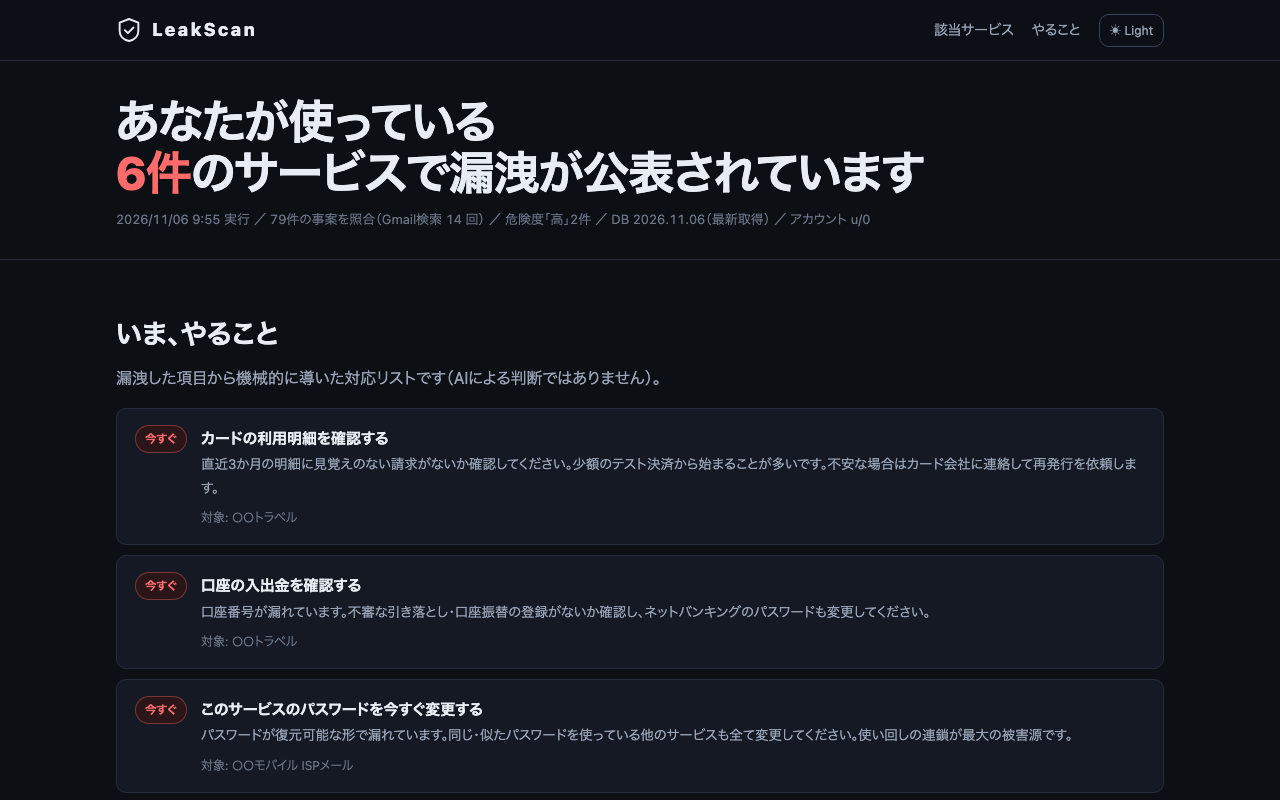
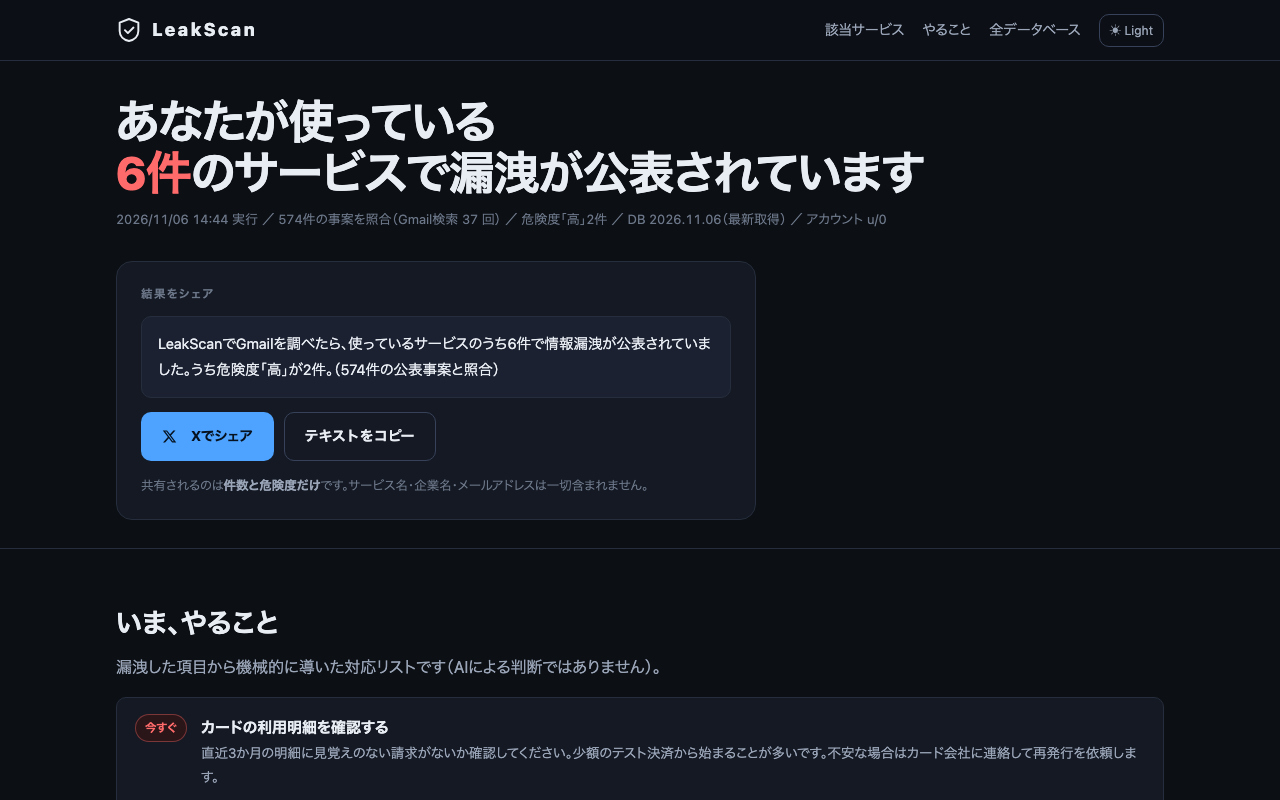
chore(store): スクリーンショットと設定既定値を現状に合わせる
- スクリーンショット4点を再生成（79件 → 574件 / Gmail検索14回 → 37回）
  企業名は引き続き伏せ字のまま
- 「1回の検索でまとめるサービス数」の既定を 8 → 16、上限 12 → 24 に。
  実際の詰め込みはクエリ文字数で決まることを説明文に追記
- プレビュー用ハーネスの件数を実データに合わせる

diff --git a/test/options-preview.html b/test/options-preview.html
@@ -8,7 +8,7 @@
 <script>
 window.chrome = { runtime: { sendMessage: async (msg, cb) => {
   let res;
-  if (msg.type === 'LEAKSCAN_GET_VIEW') res = { options:{accountIndex:0,includeSpamTrash:false,batchSize:8,dbBase:'https://leakscan.matsunai.com/data/'}, db:{count:79,source:'remote'}, state:{status:'idle'}, report:null };
+  if (msg.type === 'LEAKSCAN_GET_VIEW') res = { options:{accountIndex:0,includeSpamTrash:false,batchSize:16,dbBase:'https://leakscan.matsunai.com/data/'}, db:{count:574,source:'remote'}, state:{status:'idle'}, report:null };
   else if (msg.type === 'LEAKSCAN_SELFTEST') { await new Promise(r=>setTimeout(r,400));
     res = { ok:true, searchBoxFound:true, resetOk:true, noResultsDetected:true, rowSelector:'tr.zA', rowCount:50, senderCount:63, senderAttrsOk:true, paginationDetectable:true, elapsedMs:2140, error:null }; }
   else res = { ok:true };
@@ -40,7 +40,7 @@ window.chrome = { runtime: { sendMessage: async (msg, cb) => {
 
       <div class="row">
         <label class="lb" for="batch">1回の検索でまとめるサービス数</label>
-        <div class="hint">多くするとスキャンは速くなりますが、メールの多い人は分割再検索が増えます。既定は8です。</div>
+        <div class="hint">1回の検索に詰め込むサービス数の上限です。実際はクエリの文字数で詰めるため、ここまで使い切らないこともあります。多くするとスキャンは速くなりますが、メールの多い人は分割再検索が増えます。既定は16です。</div>
         <input type="number" id="batch" min="1" max="12" step="1">
       </div>
 

diff --git a/test/popup-preview.html b/test/popup-preview.html
@@ -31,8 +31,8 @@ window.chrome = {
     openOptionsPage(){},
     sendMessage: async (msg, cb) => {
       let res;
-      if (msg.type === 'LEAKSCAN_GET_VIEW') res = { state:{status:'done'}, options:{}, db:{count:79,version:'2026.11.06',source:'remote',stale:false},
-        report:{generatedAt:Date.now(),dbVersion:'2026.11.06',dbSource:'remote',accountIndex:0,scanned:79,queries:14,matches:FAKE} };
+      if (msg.type === 'LEAKSCAN_GET_VIEW') res = { state:{status:'done'}, options:{}, db:{count:574,version:'2026.11.06',source:'remote',stale:false},
+        report:{generatedAt:Date.now(),dbVersion:'2026.11.06',dbSource:'remote',accountIndex:0,scanned:574,queries:37,matches:FAKE} };
       else if (msg.type === 'LEAKSCAN_GET_DB') res = { meta:await fetch('/extension/data/meta.json').then(r=>r.json()), entries:maskEntries(await fetch('/extension/data/breaches.json').then(r=>r.json())) };
       else res = { ok:true };
       if (cb) cb(res); return res;

diff --git a/extension/options/options.html b/extension/options/options.html
@@ -30,7 +30,7 @@
 
       <div class="row">
         <label class="lb" for="batch">1回の検索でまとめるサービス数</label>
-        <div class="hint">多くするとスキャンは速くなりますが、メールの多い人は分割再検索が増えます。既定は8です。</div>
+        <div class="hint">1回の検索に詰め込むサービス数の上限です。実際はクエリの文字数で詰めるため、ここまで使い切らないこともあります。多くするとスキャンは速くなりますが、メールの多い人は分割再検索が増えます。既定は16です。</div>
         <input type="number" id="batch" min="1" max="12" step="1">
       </div>
 

diff --git a/test/results-preview.html b/test/results-preview.html
@@ -33,7 +33,7 @@ window.chrome = {
       if (msg.type === 'LEAKSCAN_GET_VIEW') {
         res = { state:{status:'done'}, options:{}, db:{},
           report:{ generatedAt:Date.now(), dbVersion:'2026.11.06', dbSource:'remote',
-                   accountIndex:0, includeSpamTrash:false, scanned:197, queries:16, matches:FAKE_MATCHES } };
+                   accountIndex:0, includeSpamTrash:false, scanned:574, queries:37, matches:FAKE_MATCHES } };
       } else if (msg.type === 'LEAKSCAN_GET_DB') {
         res = { meta: await fetch('/extension/data/meta.json').then(r=>r.json()),
                 entries: maskEntries(await fetch('/extension/data/breaches.json').then(r=>r.json())) };

diff --git a/extension/options/options.js b/extension/options/options.js
@@ -14,7 +14,7 @@
         patch: {
           accountIndex: Math.max(0, Math.min(9, Number($('#account').value) || 0)),
           includeSpamTrash: $('#spam').checked,
-          batchSize: Math.max(1, Math.min(12, Number($('#batch').value) || 8)),
+          batchSize: Math.max(1, Math.min(24, Number($('#batch').value) || 16)),
           dbBase: ($('#dburl').value || '').trim() || 'https://leakscan.matsunai.com/data/'
         }
       });

diff --git a/store/shots/popup-frame.html b/store/shots/popup-frame.html
@@ -28,5 +28,5 @@
       <li>完全無料・広告なし</li>
     </ul>
   </div>
-  <div class="shot"><iframe src="http://127.0.0.1:8782/test/popup-preview.html"></iframe></div>
+  <div class="shot"><iframe src="http://127.0.0.1:8742/test/popup-preview.html"></iframe></div>
 </div></body></html>

diff --git a/extension/background.js b/extension/background.js
@@ -10,7 +10,7 @@ const DEFAULTS = {
   dbBase: 'https://leakscan.matsunai.com/data/',
   accountIndex: 0,
   includeSpamTrash: false,
-  batchSize: 8
+  batchSize: 16
 };
 
 const DB_TTL_MS = 12 * 60 * 60 * 1000;
